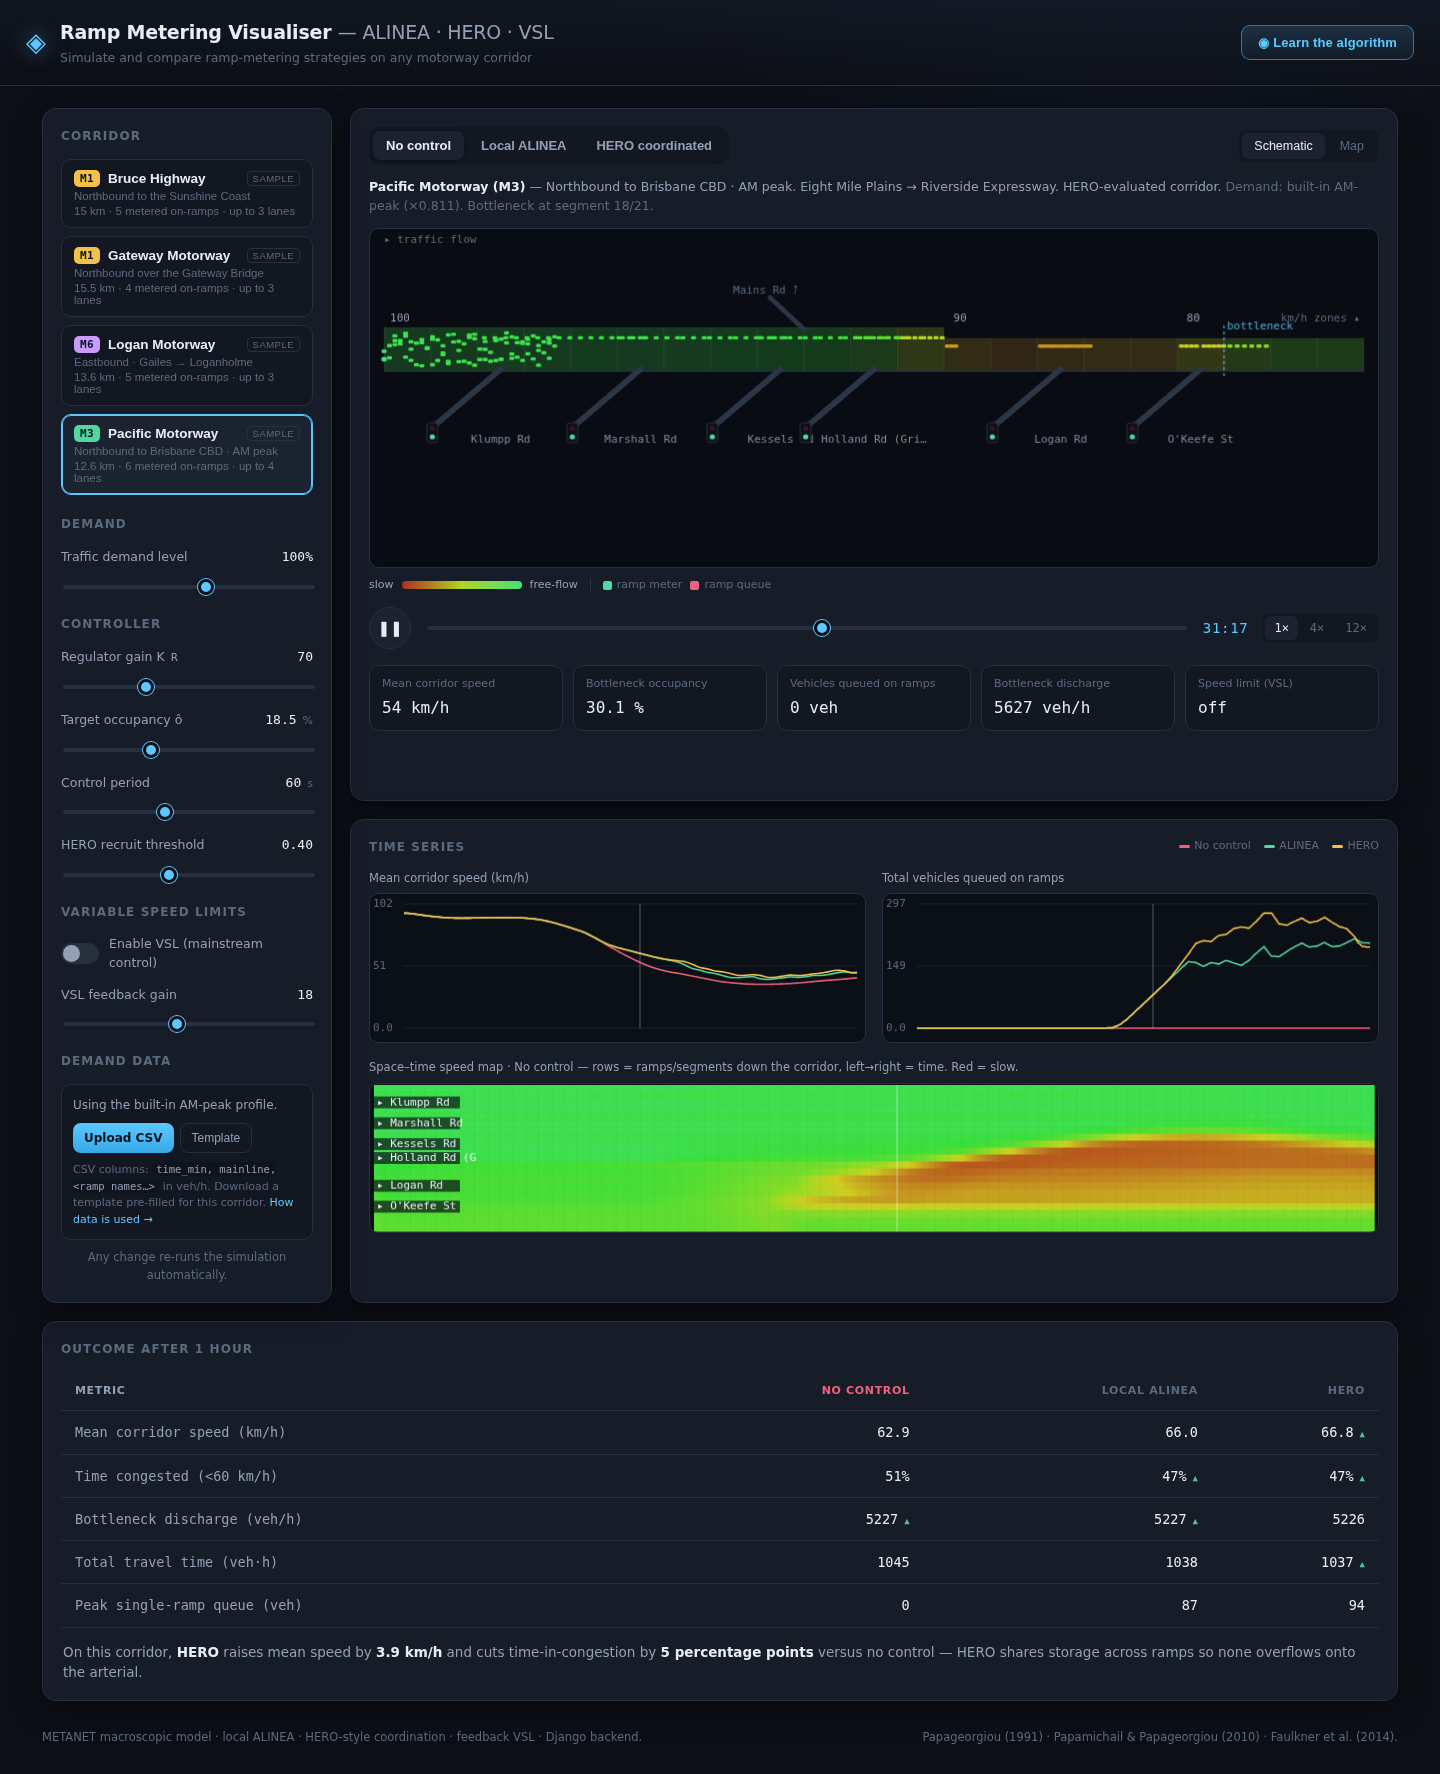
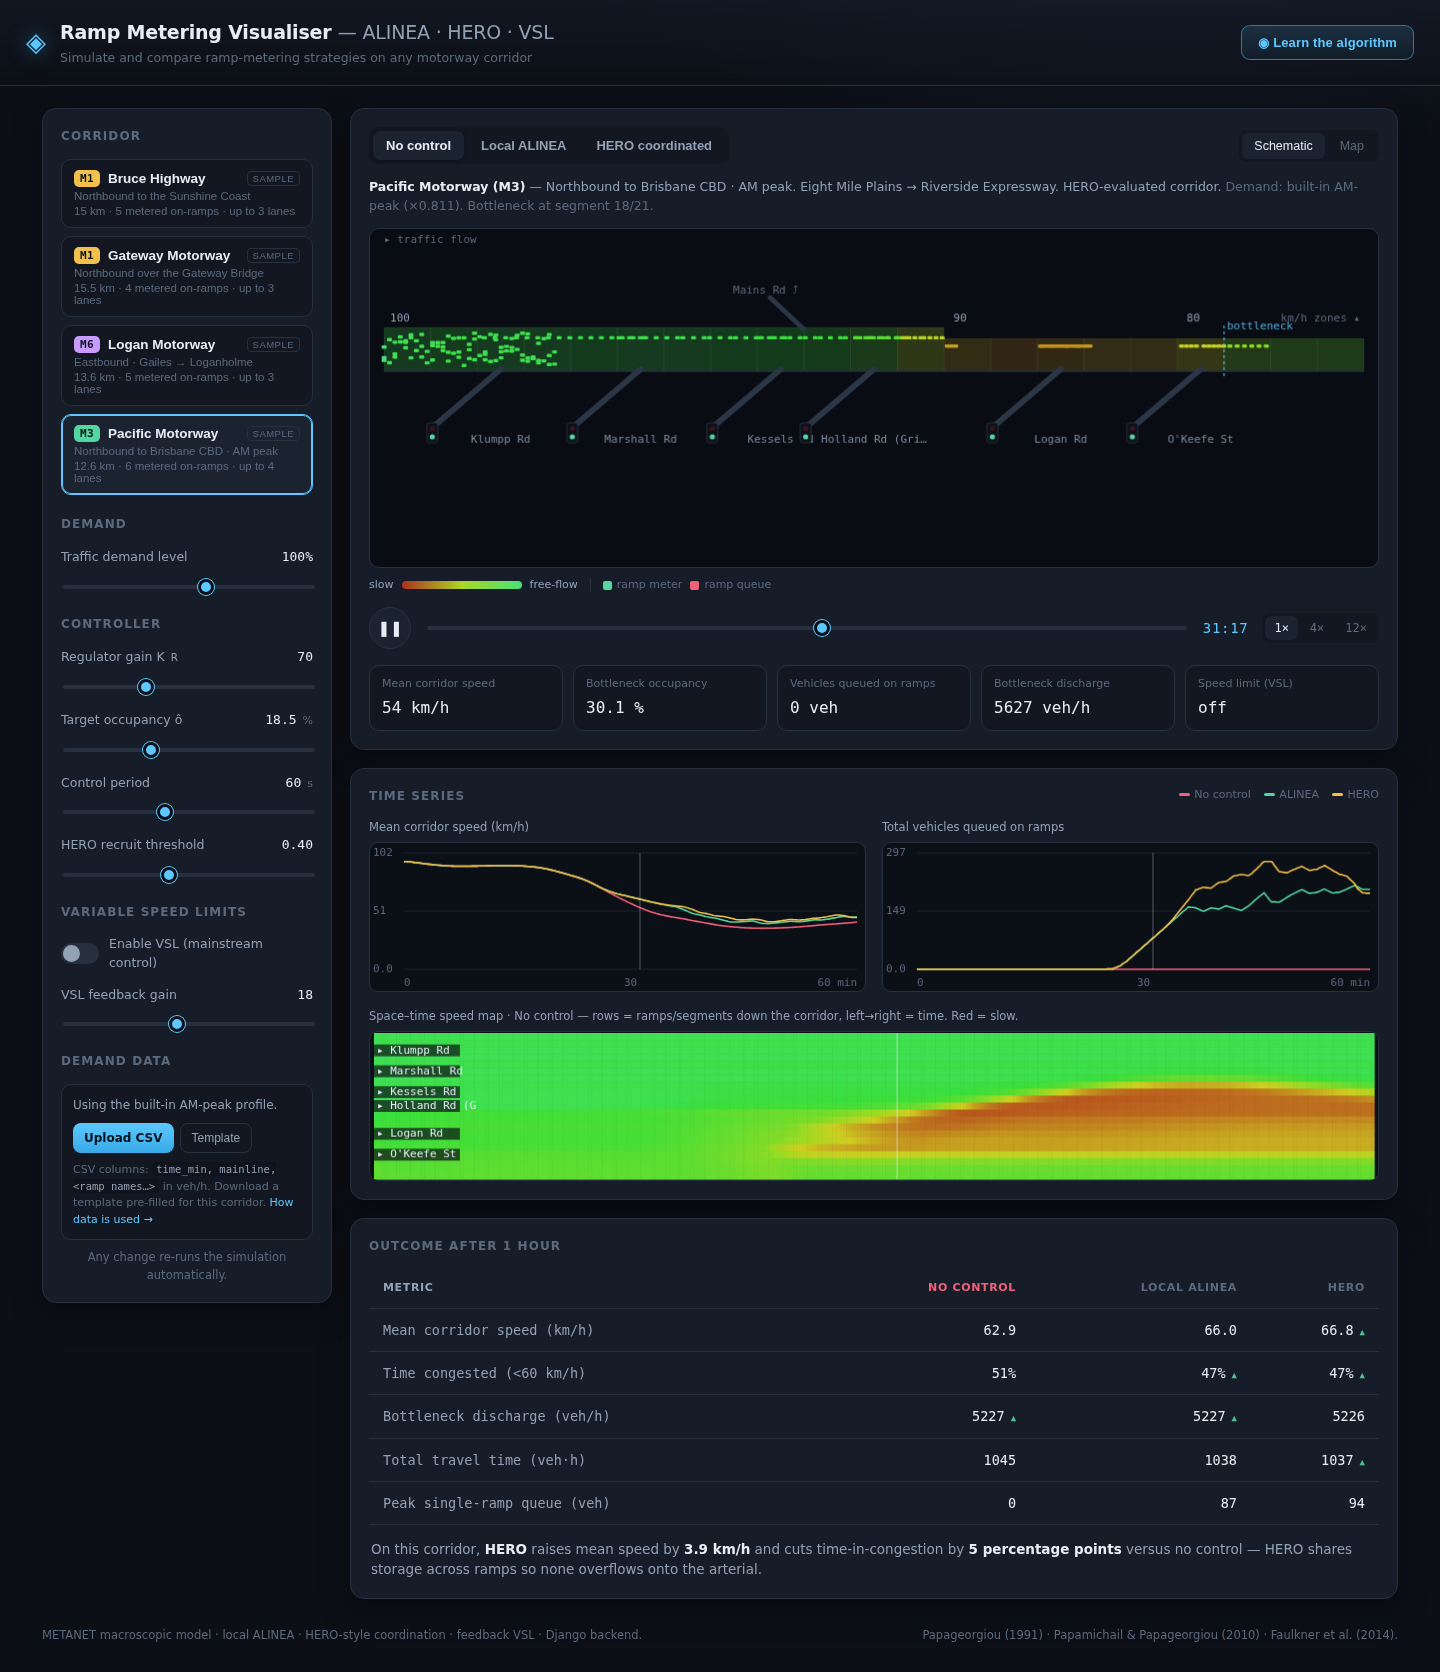
Fix sticky controls overlapping the scoreboard; polish charts & mobile
- Controls now occupy their own full-height grid column, so the sticky
  panel can no longer float over the "Outcome after 1 hour" table. The
  scoreboard sits in the content column instead of spanning full width.
- Controls pane is viewport-bounded (max-height + internal scroll) so its
  lower sliders and the data panel stay reachable on shorter screens.
- Add a 0/30/60-min time axis to the mean-speed and ramp-queue charts.
- Fix mobile horizontal overflow: panels can shrink (min-width:0), the
  scoreboard table scrolls in its own container, and the scenario tabs /
  view toggle / footer wrap on narrow screens.

diff --git a/simulator/static/simulator/style.css b/simulator/static/simulator/style.css
@@ -74,20 +74,25 @@ h1,h2{margin:0;font-weight:650;letter-spacing:-.01em}
 /* ---------- layout ---------- */
 .grid{
   max-width:1400px;margin:0 auto;padding:22px;
-  display:grid;gap:18px;
+  display:grid;gap:18px;align-items:start;
   grid-template-columns:290px 1fr;
   grid-template-areas:
     "controls stage"
     "controls charts"
-    "scoreboard scoreboard";
+    "controls scoreboard";
 }
 .panel{
   background:var(--panel);border:1px solid var(--line);border-radius:14px;
-  padding:18px;box-shadow:var(--shadow);
+  padding:18px;box-shadow:var(--shadow);min-width:0;
 }
-.controls{grid-area:controls;align-self:start;position:sticky;top:92px}
+.controls{grid-area:controls;align-self:start;position:sticky;top:92px;
+  max-height:calc(100vh - 108px);overflow-y:auto;overscroll-behavior:contain}
+.controls::-webkit-scrollbar{width:8px}
+.controls::-webkit-scrollbar-thumb{background:var(--line);border-radius:8px}
+.controls::-webkit-scrollbar-thumb:hover{background:#31404f}
 .stage{grid-area:stage}
 .charts{grid-area:charts}
+.scoreboard{overflow-x:auto}
 .scoreboard{grid-area:scoreboard}
 .panel-title{
   font-size:12px;text-transform:uppercase;letter-spacing:.09em;
@@ -343,7 +348,10 @@ pre.csv{background:#0b0f16;border:1px solid var(--line);border-radius:9px;paddin
 @media(max-width:720px){.modal-nav{display:none}.modal-body{padding:22px}}
 @media(max-width:960px){
   .grid{grid-template-columns:1fr;grid-template-areas:"controls" "stage" "charts" "scoreboard"}
-  .controls{position:static}
+  .controls{position:static;max-height:none;overflow:visible}
+  .stage-head{flex-wrap:wrap;gap:10px}
+  .scenario-tabs{flex-wrap:wrap}
+  .foot{flex-direction:column;gap:6px}
   .explainer-inner{grid-template-columns:1fr;gap:18px}
   .live-readout{grid-template-columns:repeat(2,1fr)}
   .chart-grid{grid-template-columns:1fr}

diff --git a/simulator/static/simulator/app.js b/simulator/static/simulator/app.js
@@ -194,7 +194,7 @@ function drawMini(id, pick, opts){
   if(!DATA) return;
   const suffix=vslOn?"_vsl":"";
   const series=["none","alinea","hero"].map(c=>({color:COLORS[c],data:pick(c+suffix)}));
-  const pad={l:34,r:8,t:10,b:14}, iw=w-pad.l-pad.r, ih=h-pad.t-pad.b;
+  const pad={l:34,r:8,t:10,b:22}, iw=w-pad.l-pad.r, ih=h-pad.t-pad.b;
   let ymax=-Infinity,ymin=Infinity;
   for(const s of series) for(const v of s.data){ if(v>ymax)ymax=v; if(v<ymin)ymin=v; }
   ymin=Math.min(ymin,0); ymax=(ymax*1.08)||1;
@@ -209,7 +209,14 @@ function drawMini(id, pick, opts){
     for(let i=0;i<n;i++){const x=X(i),y=Y(s.data[i]); i?ctx.lineTo(x,y):ctx.moveTo(x,y);} ctx.stroke(); }
   const fi=Math.min(Math.floor(frame),n-1), cx=X(fi);
   ctx.strokeStyle="rgba(232,237,245,.35)";ctx.lineWidth=1;
-  ctx.beginPath();ctx.moveTo(cx,pad.t);ctx.lineTo(cx,h-pad.b);ctx.stroke();
+  ctx.beginPath();ctx.moveTo(cx,pad.t);ctx.lineTo(cx,pad.t+ih);ctx.stroke();
+  // x-axis time ticks (minutes)
+  const tot=Math.round(DATA.meta.horizon/60);
+  ctx.fillStyle="#5c6a7e"; ctx.font=MONO;
+  ctx.textAlign="left";   ctx.fillText("0", pad.l, h-5);
+  ctx.textAlign="center"; ctx.fillText(""+Math.round(tot/2), pad.l+iw/2, h-5);
+  ctx.textAlign="right";  ctx.fillText(tot+" min", w-pad.r, h-5);
+  ctx.textAlign="left";
 }
 
 function drawHeat(){
